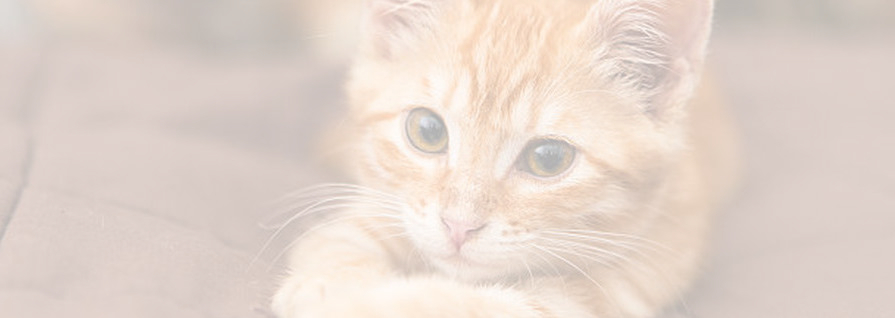
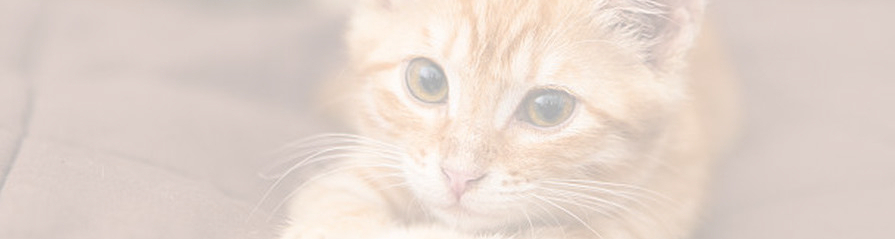
domaća zadaća

diff --git a/zadaća/usluge.html b/zadaća/usluge.html
@@ -9,14 +9,12 @@
     <link rel="stylesheet" href="style.css">
 
     <style>
-        main {
-            padding-bottom: 100px;
-        }
 
-        main section:first-of-type p {
+        .usluge p {
             font-family: catfont;
             font-style: italic;
             font-size: 1.2rem;
+            font-weight: 700;
         }
 
         section {
@@ -32,10 +30,7 @@
 
         .usluge {
             background-image: url(images/cat-kitten-138468381-4cd82b91d7be45cb9f9aa8366e10bce45.jpg);
-        }
-
-        .usluge p {
-            font-weight: 700;
+            height: 190px;
         }
 
         .bar,
@@ -90,9 +85,10 @@
             font-weight: 800;
         }
 
-        .ostalo img,
-        .ostalo2 img {
+        section.cinema, section.art, section.book, section.behavior {
             display: inline-block;
+            height: 330px;
+            position: relative;
         }
 
         img.cinemanights,
@@ -102,7 +98,7 @@
         }
 
         img.artcorner,
-        img.behavior {
+        img.catbehavior {
             float: right;
             padding: 10px;
         }
@@ -110,22 +106,43 @@
         img.cinemanights:hover,
         img.artcorner:hover,
         img.bookclub:hover,
-        img.behavior:hover {
+        img.catbehavior:hover {
             opacity: 0.3;
         }
 
-        p.cinemanights,
-        p.bookclub {
+        p.cinemanights, p.bookclub {
             text-align: left;
             font-family: catfont;
             font-size: 1.5em;
+            padding-left: 10px;
+            position: absolute;
+            bottom: 7px;
+            left: 50px;
+            color: white;
+            background-color: rgba(0, 0, 0, 0.7);
         }
 
-        p.artcorner,
-        p.behavior {
+        p.artcorner, p.catbehavior {
             text-align: right;
             font-family: catfont;
             font-size: 1.5em;
+            padding-right: 10px;
+            position: absolute;
+            bottom: 7px;
+            right: 50px;
+            color: white;
+            background-color: rgba(0, 0, 0, 0.7);
+        }
+
+        p.cinemanights, p.artcorner, p.bookclub, p.catbehavior {
+            display: none;
+        }
+
+        .cinema:hover p.cinemanights,
+        .art:hover p.artcorner,
+        .book:hover p.bookclub,
+        .behavior:hover p.catbehavior {
+            display: block;
         }
     </style>
 
@@ -198,24 +215,30 @@
             <input type="submit" class="submit" value="Rezerviraj termin">
         </section>
 
-        <section class="ostalo">
+        <div class="ostalo">
+
             <h2>Ostale usluge</h2>
+        <section class="cinema">
             <img src="images/71041527_2430018617245698_2059807298015985664_o.jpg" width="300" alt="kino s mačkama" class="cinemanights">
-            <img src="images/5-23-3-20-14-16-23m.jpg" width="300" alt="slika mačke" class="artcorner">
-            <br><br><br>
             <p class="cinemanights">Cat Cinema Nights</p>
-            <br>
+        </section>
+
+        <section class="art">
+            <img src="images/5-23-3-20-14-16-23m.jpg" width="300" alt="slika mačke" class="artcorner">
             <p class="artcorner">Cat Art Corner</p>
         </section>
 
-        <section class="ostalo2">
+        <section class="book">
             <img src="images/cat-reading-1240x852.jpg" width="300" alt="mačka čita knjigu" class="bookclub">
-            <img src="images/img-cat-behavior-header.jpg" width="300" alt="mačka prede" class="behavior">
-            <br><br><br><br><br><br>
             <p class="bookclub">Cat Book Club</p>
-            <br>
-            <p class="behavior">Cat Behavior Classes</p>
         </section>
+
+        <section class="behavior">
+            <img src="images/img-cat-behavior-header.jpg" width="300" alt="mačka prede" class="catbehavior">
+            <p class="catbehavior">Cat Behavior Classes</p>
+        </section>
+
+        </div>
     </main>
 
     <footer>

diff --git a/zadaća/index.html b/zadaća/index.html
@@ -9,35 +9,52 @@
     <link rel="stylesheet" href="style.css">
 
     <style>
-        @font-face {
-            font-family: catfont;
-            src: url(fonts/meows-font/Meows-VGWjy.ttf);
-        }
-
-        main h1  {
-            font-family: catfont;
-            color: rgb(247, 165, 78);
-            font-size: 5rem;
-            margin: 0 0;
-            padding-top: 20px;
-            text-shadow: 0.3rem 0.3rem 0.5rem rgb(100, 65, 1);
-        }
 
         main section {
             background-color: rgb(238, 229, 215);
+            position: relative;
+        }
+
+        main section h1 {
+            font-family: catfont;
+            color: rgb(240, 161, 78);
+            font-size: 5rem;
+            margin: 0 0;
+            padding-top: 20px;
+            text-shadow: 0.3rem 0.3rem 0.2rem black;
+            position: absolute;
+            left: 0;
+            right: 0;
+            top: 0;
+            bottom: 0;
+        }
+
+        section img {
+            vertical-align: bottom;
         }
 
         main section p {
             font-family: catfont;
             font-style: italic;
             font-weight: 800;
-            font-size: 1.2rem;
-            color: rgb(95, 84, 84);
+            font-size: 1.8rem;
+            width: 100%;
+            color: white;
+            background-color: rgb(73, 73, 73);
+            position: absolute;
+            top: 90.4%;
+            display: none;
         }
 
-        section img {
-            vertical-align: bottom;
+        section:hover {
+            filter: brightness(110%);
         }
+
+        section:hover p {
+            display: block;
+        }
+
+
     </style>
 </head>
 
@@ -72,7 +89,7 @@
         <section>
             <h1>Dobrodošli u Cat Cafe!</h1>
             <p>Ovo je cafe za sve ljubitelje mačaka - dođite i opustite se!</p>
-            <img src="images/image2.jpg" alt="Slika mačke u cat cafe-u" title="Cat cafe" width="991px">
+            <img src="images/image.jpg" alt="Slika mačke u cat cafe-u" title="Cat cafe" width="991px">
         </section>
     </main>
 

diff --git a/zadaća/o-nama.html b/zadaća/o-nama.html
@@ -9,6 +9,12 @@
     <link rel="stylesheet" href="style.css">
 
     <style>
+
+        main h1 {
+            margin: 0 0;
+            padding: 5px;
+        }
+
         main h2 {
             margin: 0 0;
             padding: 5px;
@@ -33,6 +39,7 @@
         #list {
             background-image: url(images/istockphoto-465257035-612x6123.jpg);
             background-size: cover;
+            height: 180px;
         }
 
 
@@ -41,6 +48,8 @@
             line-height: 2rem;
             font-size: 1.3rem;
             list-style-image: url(images/caticon2.png);
+            margin: 0 0;
+            padding: 0 0;
         }
 
         #list li {

diff --git a/zadaća/style.css b/zadaća/style.css
@@ -92,6 +92,10 @@ a.socmedia:hover {
     background-color: rgb(243, 199, 117);
 }
 
+a.socmedia {
+    margin: 25px;
+}
+
 @font-face {
     font-family: catfont;
     src: url(fonts/meows-font/Meows-VGWjy.ttf);

diff --git a/zadaća/kontakt.html b/zadaća/kontakt.html
@@ -61,13 +61,11 @@
             font-weight: 1000;
         }
     </style>
-
 </head>
 
 <body>
-
     <header>
-
+        
         <nav>
 
             <div class="logo">
